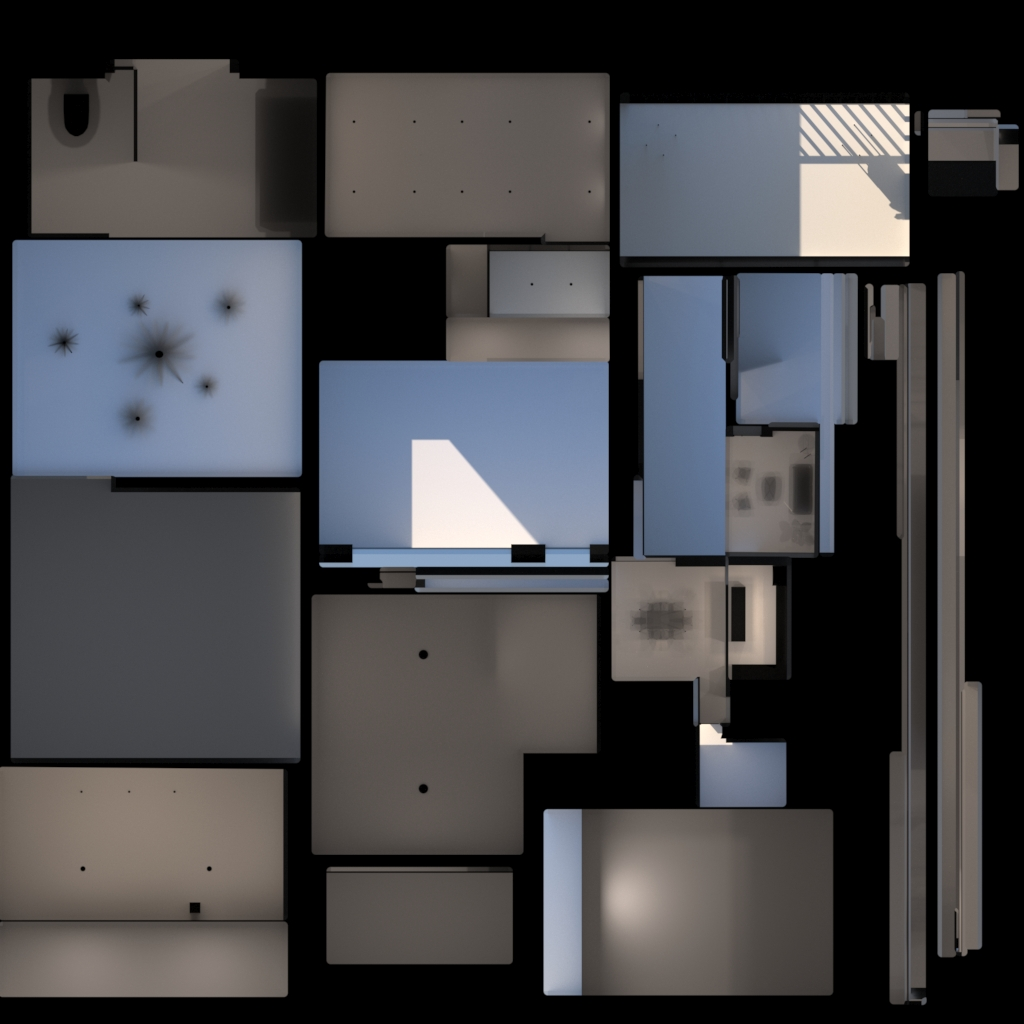
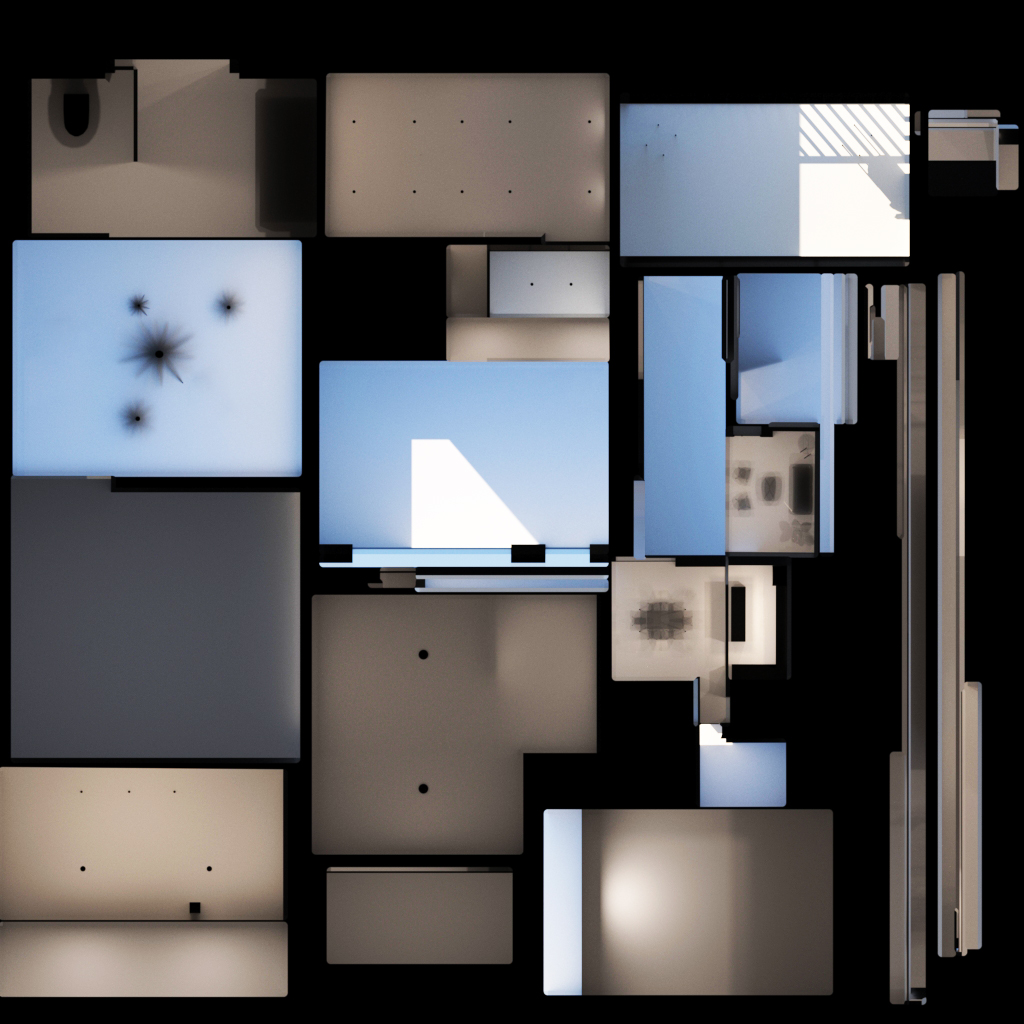
fet: chage textures UV for higt contrast

diff --git a/src/three/objects/House.js b/src/three/objects/House.js
@@ -45,7 +45,7 @@ export class House extends Mesh{
             // 
             let loader =   new TextureLoader();
             const textures = Promise.all([
-            loader.load('models3D/house-v1/light_maps/UV_acontraste.jpg'),
+            loader.load('models3D/house-v1/light_maps/UV_a.jpg'),
             loader.load('models3D/house-v1/light_maps/UV_b.jpg'),
             loader.load('models3D/house-v1/light_maps/UV_c.jpg'),
             loader.load('models3D/house-v1/light_maps/UV_d.jpg'),
@@ -68,6 +68,7 @@ export class House extends Mesh{
                         mapDB.load(productSelected.normal,()=>{
                             const uploadMaterial = new MeshStandardMaterial({
                                 color: 0x777777,
+                                // TODO: brillante u opcao
                                 // TODO: light map dependiendo de que sea si no da error de sombras
                                 lightMap:(typeOfAplication===1)?texturesLoades[0]:texturesLoades[1],
                                 map:textureMap,
@@ -129,7 +130,7 @@ export class House extends Mesh{
                     envMapIntensity:0,
                     lightMap:uva,                
                     map:child.material.map,
-                    lightMapIntensity:4
+                    lightMapIntensity:6
                 })
                 child.material = materialWhitLigthmap
                     return 
@@ -161,7 +162,7 @@ export class House extends Mesh{
             }
             else{
                 child.material.lightMap=uvc
-                child.material.lightMapIntensity=4
+                child.material.lightMapIntensity=6
                 child.material.envMapIntensity=0
             }
             // console.log(child.name)
@@ -184,7 +185,7 @@ export class House extends Mesh{
             }
             else{
                 child.material.lightMap=uvd
-                child.material.lightMapIntensity=4
+                child.material.lightMapIntensity=6
                 child.material.envMapIntensity=0.5
             }
                 // const materialWhitLigthmap = new MeshStandardMaterial({
@@ -199,7 +200,7 @@ export class House extends Mesh{
         }
         if(child.name.includes("UVe")){
             child.material.lightMap=uve
-            child.material.lightMapIntensity=4
+            child.material.lightMapIntensity=6
             child.material.envMapIntensity=0
         //         const materialWhitLigthmap = new MeshStandardMaterial({
         //             color: 0x777777,

diff --git a/src/store/products/actionsProducts.js b/src/store/products/actionsProducts.js
@@ -41,6 +41,23 @@ export const filterProductsForString=({commit,getters},{word=""})=>{
   commit("setProductsFilter",result)
 }
 
+
+export const addPointToClickProduct=({commit},id)=>{
+  console.log(commit)
+  let myHeaders = new Headers();
+  myHeaders.append("Access-Control-Allow-Origin",`*`);
+  let requestOptions = {
+    method: 'POST',
+    headers: myHeaders,
+    redirect: 'follow'
+  };
+  fetch(`${baseUrl}/api/counter/add/${id}`, requestOptions)
+  .then(response => response.text())
+  .then(result => console.log(result))
+  .catch(error => console.log('error', error));
+}
+
+
 const normalizeText=(text)=>{
   return text.toUpperCase().normalize('NFD')
   .replace(/([aeio])\u0301|(u)[\u0301\u0308]/gi,"$1$2")

diff --git a/src/components/cards/ProductComponent.vue b/src/components/cards/ProductComponent.vue
@@ -54,8 +54,10 @@ export default {
     },
   },
   methods: {
-    ...mapActions(["changeProductsAplicatesInAreas","changeisLoadingProductToAplicate"]),
+    ...mapActions(["changeProductsAplicatesInAreas","changeisLoadingProductToAplicate","addPointToClickProduct"]),
     selectProductForMap(product) {
+      console.log(product._id)
+      this.addPointToClickProduct(product._id)
       Observer.emit(EVENTS.SENDPRODUCT, product,this.getAreaSelected,this.getAplicationSeletec,this.getMuroAplication);
       this.changeisLoadingProductToAplicate(true)
       if(this.getAplicationSeletec===1){
